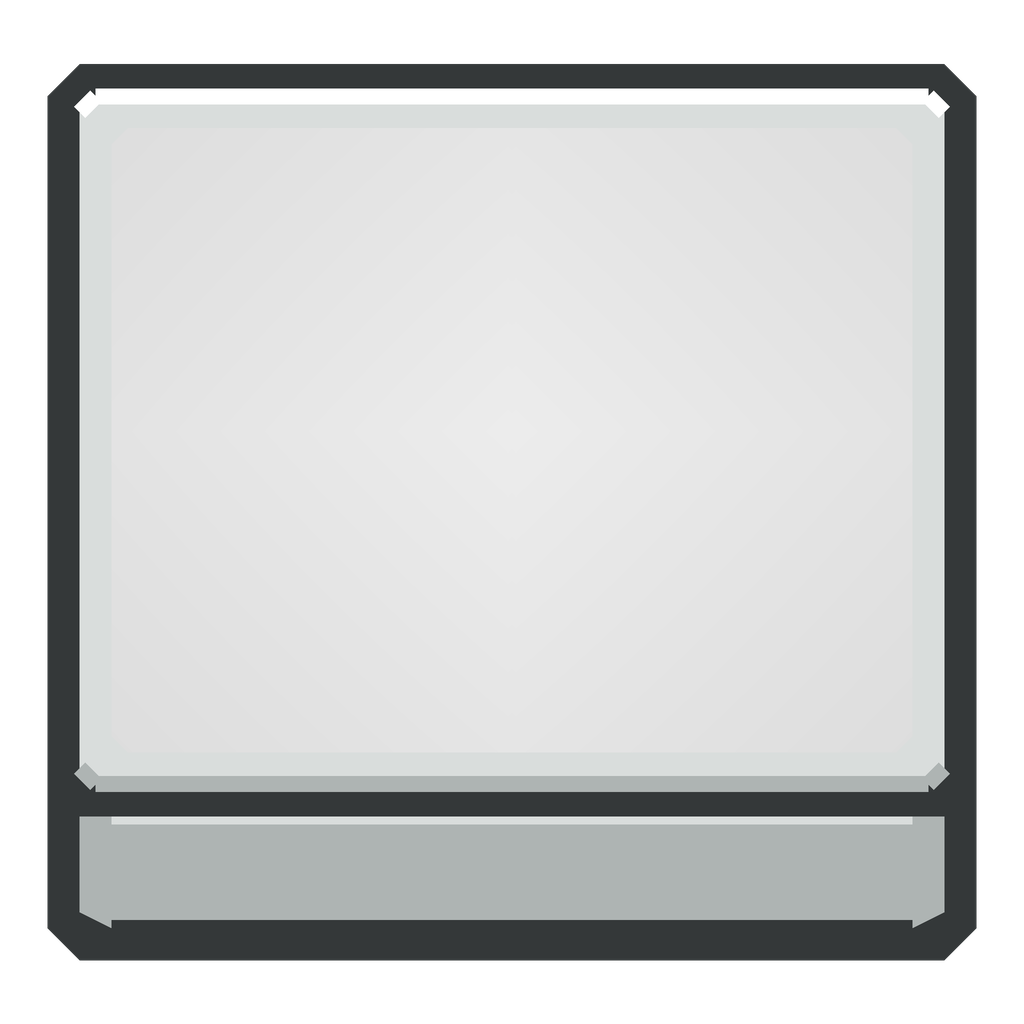
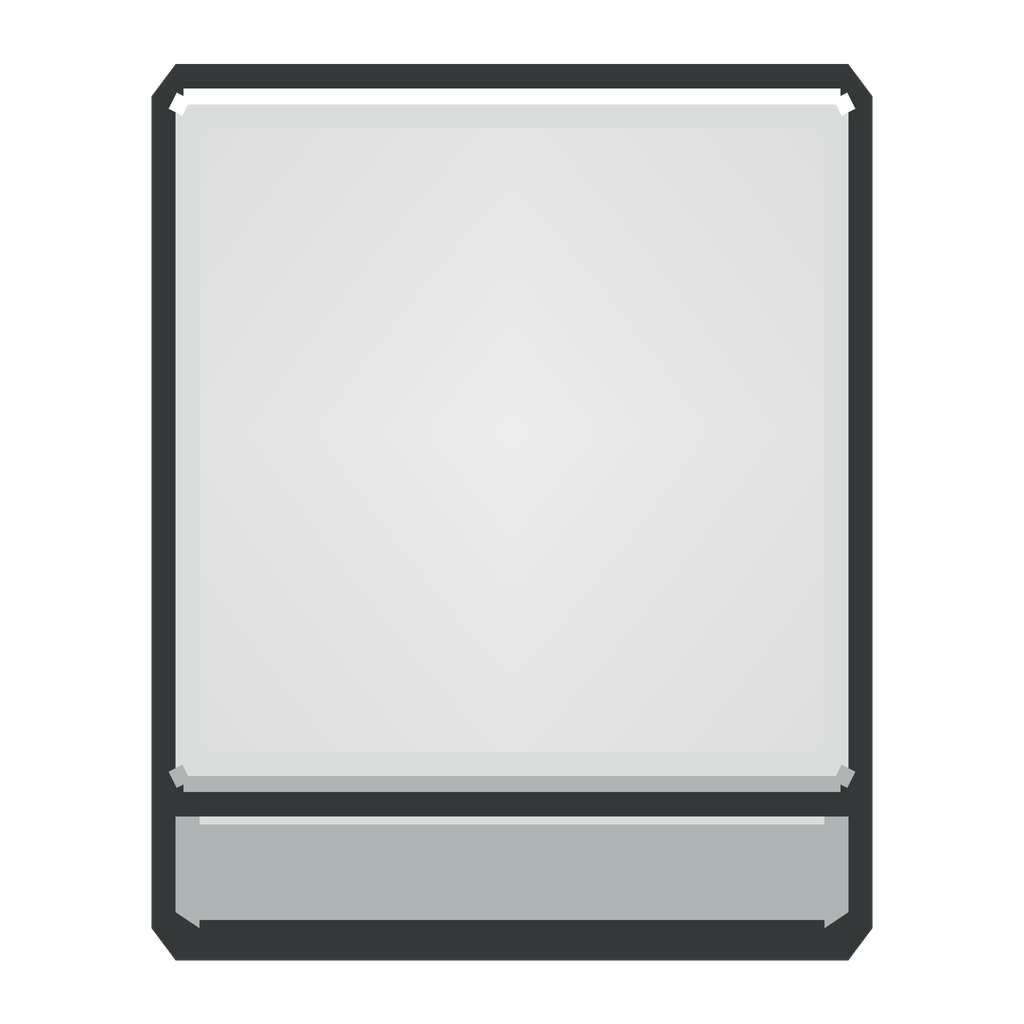
fix: keep cube workbench orientation fixed

Changed region(s): [[0.8125, 0.0625, 0.9688, 0.9375], [0.0312, 0.0625, 0.1875, 0.9375]]

diff --git a/tools/generate_generic_workbench.py b/tools/generate_generic_workbench.py
@@ -37,11 +37,11 @@ DESK_CABINET_FACE = [(16, 75), (112, 75), (112, 98), (107, 103), (21, 103), (16,
 # The cube template keeps the proportions of one mirrored end segment from a
 # three-cell vanilla worktable, but uses original symmetric geometry. Its broad
 # top is neutral; the perimeter and front apron receive the stuff color.
-CUBE_TOP_OUTER = [(10, 8), (118, 8), (122, 12), (122, 98), (118, 102), (10, 102), (6, 98), (6, 12)]
-CUBE_TOP_FRAME = [(12, 12), (116, 12), (118, 14), (118, 96), (116, 98), (12, 98), (10, 96), (10, 14)]
-CUBE_SURFACE = [(16, 16), (112, 16), (114, 18), (114, 92), (112, 94), (16, 94), (14, 92), (14, 18)]
-CUBE_APRON = [(6, 96), (122, 96), (122, 116), (118, 120), (10, 120), (6, 116)]
-CUBE_APRON_FACE = [(10, 100), (118, 100), (118, 114), (114, 116), (14, 116), (10, 114)]
+CUBE_TOP_OUTER = [(22, 8), (106, 8), (109, 12), (109, 98), (106, 102), (22, 102), (19, 98), (19, 12)]
+CUBE_TOP_FRAME = [(23, 12), (105, 12), (106, 14), (106, 96), (105, 98), (23, 98), (22, 96), (22, 14)]
+CUBE_SURFACE = [(27, 16), (101, 16), (103, 18), (103, 92), (101, 94), (27, 94), (25, 92), (25, 18)]
+CUBE_APRON = [(19, 96), (109, 96), (109, 116), (106, 120), (22, 120), (19, 116)]
+CUBE_APRON_FACE = [(22, 100), (106, 100), (106, 114), (103, 116), (25, 116), (22, 114)]
 
 PALETTE = {
     "outline": "#343839",
@@ -190,13 +190,13 @@ def draw_cube_texture(size: int) -> Image.Image:
 
     draw.polygon(_points(CUBE_APRON, scale), fill=PALETTE["outline"])
     draw.polygon(_points(CUBE_APRON_FACE, scale), fill=PALETTE["primary_dark"])
-    draw.line(_points([(14, 102), (114, 102)], scale), fill=PALETTE["primary"], width=width)
-    draw.line(_points([(114, 116), (14, 116), (10, 114)], scale), fill=PALETTE["outline"], width=width)
+    draw.line(_points([(25, 102), (103, 102)], scale), fill=PALETTE["primary"], width=width)
+    draw.line(_points([(103, 116), (25, 116), (22, 114)], scale), fill=PALETTE["outline"], width=width)
 
     draw.polygon(_points(CUBE_TOP_OUTER, scale), fill=PALETTE["outline"])
     draw.polygon(_points(CUBE_TOP_FRAME, scale), fill=PALETTE["primary"])
 
-    surface_bounds = _box((14, 16, 115, 95), scale)
+    surface_bounds = _box((25, 16, 104, 95), scale)
     surface_width = surface_bounds[2] - surface_bounds[0]
     surface_height = surface_bounds[3] - surface_bounds[1]
     gradient = Image.new("RGBA", (surface_width, surface_height), (0, 0, 0, 0))
@@ -212,8 +212,8 @@ def draw_cube_texture(size: int) -> Image.Image:
     image.paste(gradient, surface_bounds[:2], surface_mask.crop(surface_bounds))
 
     draw = ImageDraw.Draw(image)
-    draw.line(_points([(12, 12), (116, 12), (118, 14)], scale), fill=PALETTE["primary_light"], width=width)
-    draw.line(_points([(118, 96), (116, 98), (12, 98)], scale), fill=PALETTE["primary_dark"], width=width)
+    draw.line(_points([(23, 12), (105, 12), (106, 14)], scale), fill=PALETTE["primary_light"], width=width)
+    draw.line(_points([(106, 96), (105, 98), (23, 98)], scale), fill=PALETTE["primary_dark"], width=width)
     return _mirror_right_half(image.resize((size, size), Image.Resampling.LANCZOS))
 
 
@@ -256,12 +256,12 @@ def cube_svg() -> bytes:
   <g id="front-apron" inkscape:groupmode="layer" inkscape:label="Stuff-colored front apron">
     <polygon points="{points['apron']}" fill="{PALETTE['outline']}"/>
     <polygon points="{points['apron_face']}" fill="{PALETTE['primary_dark']}"/>
-    <path d="M14 102 H114" fill="none" stroke="{PALETTE['primary']}" stroke-width="2"/>
+    <path d="M25 102 H103" fill="none" stroke="{PALETTE['primary']}" stroke-width="2"/>
   </g>
   <g id="stuff-shell" inkscape:groupmode="layer" inkscape:label="Stuff-colored top shell">
     <polygon points="{points['top_outer']}" fill="{PALETTE['outline']}"/>
     <polygon points="{points['top_frame']}" fill="{PALETTE['primary']}"/>
-    <path d="M12 12 H116 L118 14" fill="none" stroke="{PALETTE['primary_light']}" stroke-width="2"/>
+    <path d="M23 12 H105 L106 14" fill="none" stroke="{PALETTE['primary_light']}" stroke-width="2"/>
   </g>
   <g id="neutral-worktop" inkscape:groupmode="layer" inkscape:label="Neutral worktop and overlay area">
     <polygon points="{points['surface']}" fill="url(#surface-light)"/>

diff --git a/tests/test_templates.py b/tests/test_templates.py
@@ -124,16 +124,16 @@ class TemplateTests(unittest.TestCase):
         self.assertEqual("RGBA", texture.mode)
         self.assertEqual(texture.getchannel("A").tobytes(), mask.getchannel("A").tobytes())
         self.assertEqual(texture.getchannel("A").tobytes(), texture.transpose(Image.Transpose.FLIP_LEFT_RIGHT).getchannel("A").tobytes())
-        self.assertEqual((255, 0, 0), mask.getpixel((12, 50))[:3])
+        self.assertEqual((255, 0, 0), mask.getpixel((23, 50))[:3])
         self.assertEqual((0, 255, 0), mask.getpixel((64, 60))[:3])
         self.assertEqual((255, 0, 0), mask.getpixel((64, 108))[:3])
-        self.assertTrue(all(channel <= 8 for channel in mask.getpixel((7, 50))[:3]))
+        self.assertTrue(all(channel <= 8 for channel in mask.getpixel((20, 50))[:3]))
 
     def test_cube_workbench_variants_match_their_exact_png_contracts(self):
         expected = {
[6 lines of base64/hex data omitted]
         }
         for variant_id, (size, digest) in expected.items():
             payload = template_bytes("generic-cube-workbench-1x1", variant_id)

diff --git a/tools/review_cube_workbench.py b/tools/review_cube_workbench.py
@@ -93,7 +93,7 @@ def main() -> None:
     place_sprite(sheet, recolor(texture, mask, STEEL), (930, 80, 1170, 350), "steel approximation")
 
     place_sprite(sheet, recolor(texture, mask, WOOD), (30, 390, 300, 780), "wood approximation")
-    for index, draw_size in enumerate(((1.10, 1.45), (1.17, 1.50), (1.25, 1.55))):
+    for index, draw_size in enumerate(((1.40, 1.40), (1.50, 1.50), (1.60, 1.60))):
         panel = scaled_cell(recolor(texture, mask, STEEL), draw_size)
         left = 330 + index * 280
         place_sprite(sheet, panel, (left, 390, left + 250, 780), f"simulated drawSize {draw_size}")

diff --git a/README.md b/README.md
@@ -76,8 +76,8 @@ approximately `(20,32)` through `(108,64)` in the SVG coordinate system.
 one-cell buildings whose graphic stays fixed while their interaction spot can
 rotate. Its shell and front apron use the red stuff-color channel; its large
 neutral worktop uses the green secondary channel and provides an overlay-safe
-surface bounded approximately by `(16,16)` through `(112,94)`. A typical Def
-uses `Graphic_Single`, `<drawSize>(1.17,1.5)</drawSize>`,
+surface bounded approximately by `(27,16)` through `(101,94)`. A typical Def
+uses `Graphic_Single`, `<drawSize>(1.5,1.5)</drawSize>`,
 `<drawRotated>false</drawRotated>`, and `<allowFlip>false</allowFlip>`.
 
 The generated vector sources are under matching template directories in